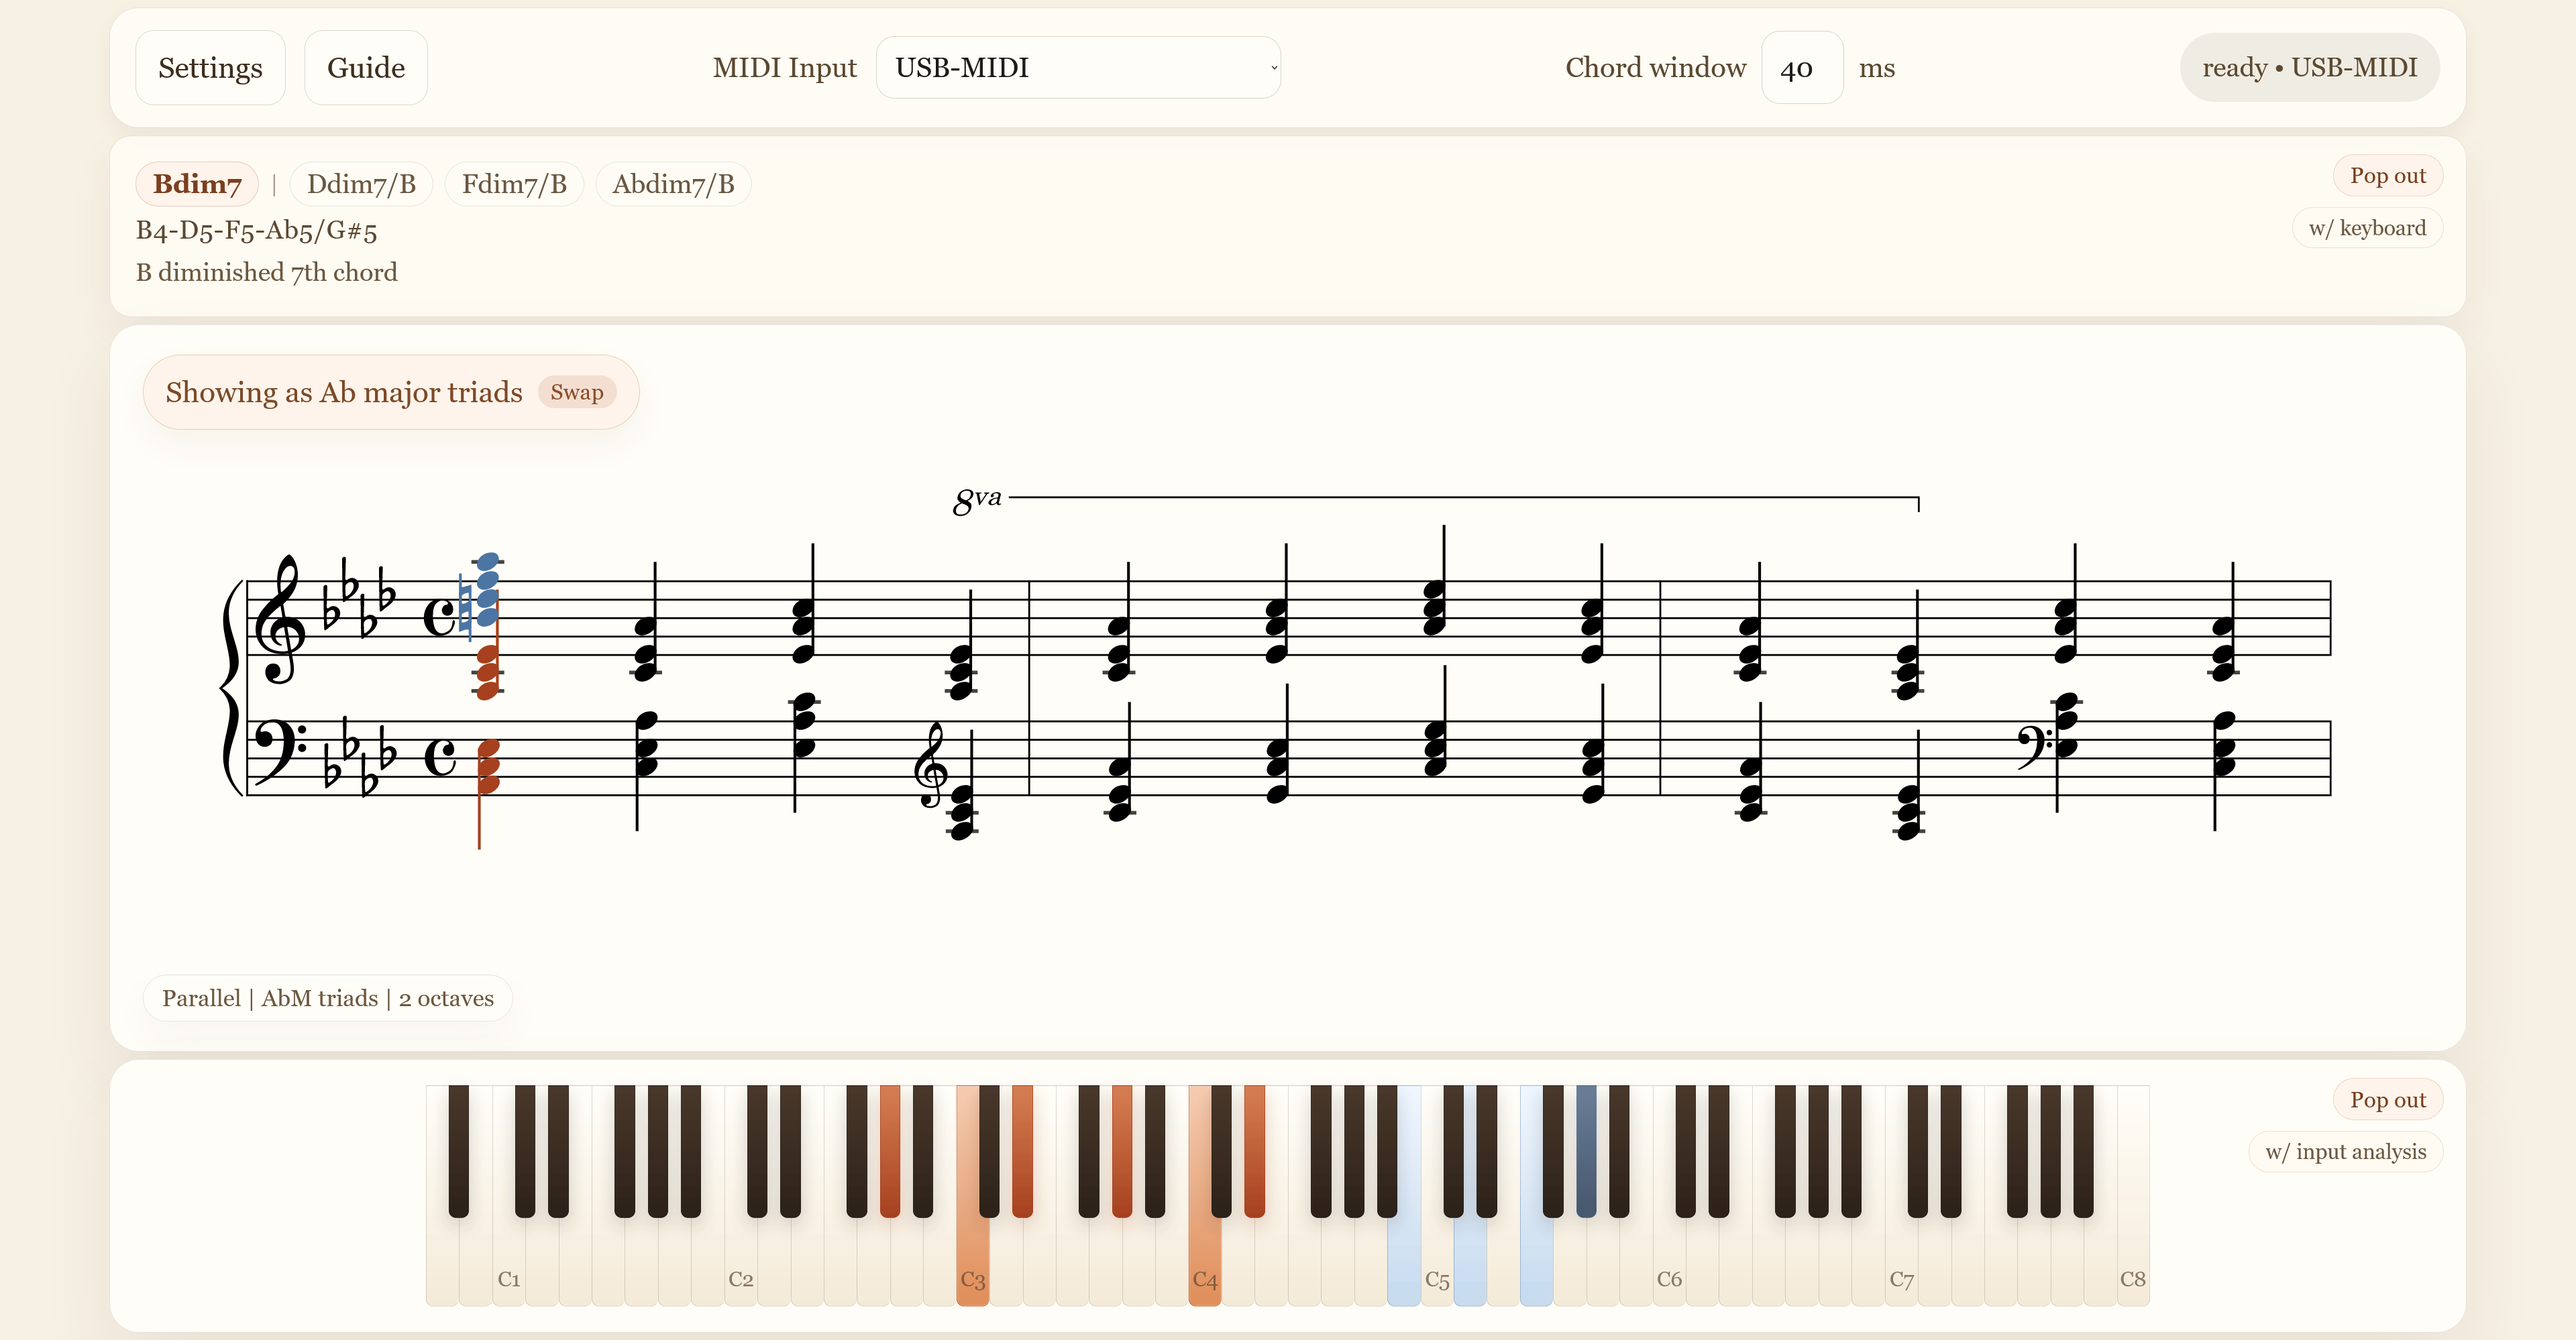
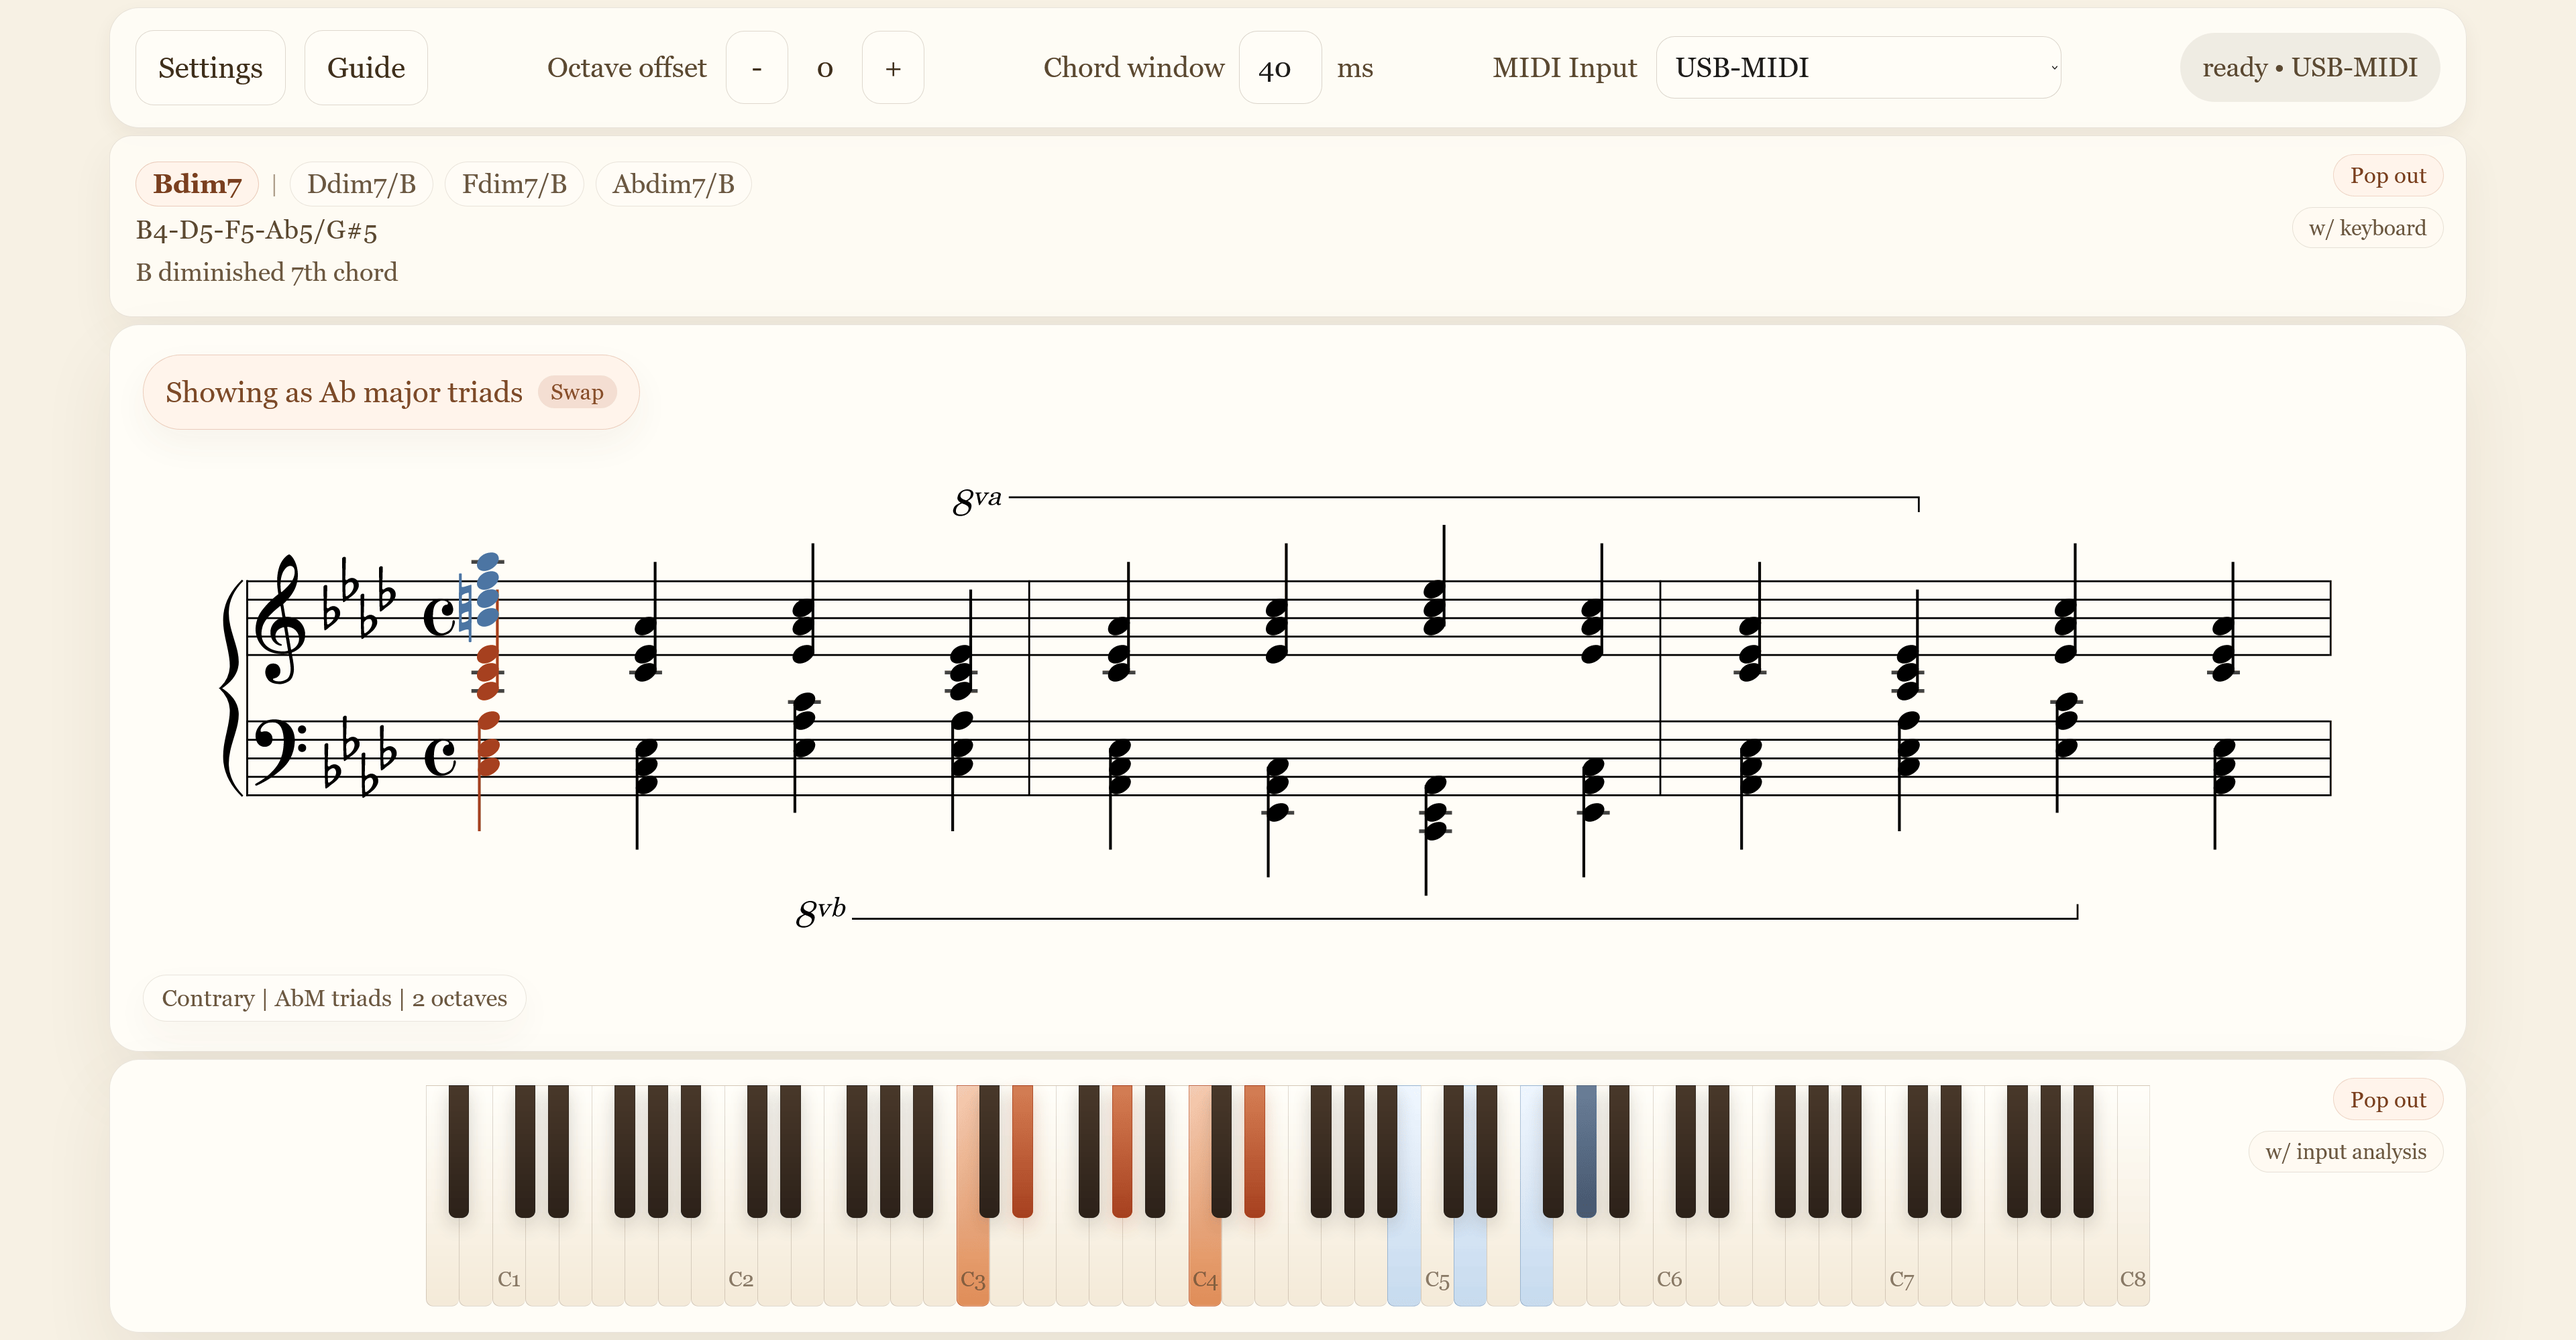
Update README.

diff --git a/README.md b/README.md
@@ -8,14 +8,16 @@ Most features can also be popped out into a scalable window and used in isolatio
 
 ![An example image of the Grand Staff Trainer layout.](referenceImg/layout.png)
 
+<a id="primary-features"></a>
 Primary feature explanations:
 1. [Input analysis panel](#input-analysis-panel) (popout friendly)
 2. [Exercise panel](#exercise-panel) (related to [chord window](#chord-window))
 3. [Keyboard display panel](#keyboard-display-panel) (popout friendly)
 
 Extra references:
-1. [Complete list of exercises](#exercise-list)
-2. [List of supported tonics](#full-tonic-list) (every practical tonic)
+1. [Explanation of user interface and all settings](#settings-explanations)
+2. [Complete list of exercises](#exercise-list)
+3. [List of supported tonics](#full-tonic-list) (every practical tonic)
 
 Design philosophy:
 1. [Input analysis panel](#input-analysis)
@@ -178,6 +180,37 @@ The keyboard display panel is the bottommost panel when visible. It is a represe
 This feature can be popped out and used in isolation or in tandem with [input analysis](#input-analysis-panel).
 
 ![An example of the keyboard panel showing the player's input and the expected input of the exercise.](referenceImg/keyboard_panel.png)
+
+## Settings Explanations
+1. The octave offset moves the position of middle C up or down the keyboard to support keyboards with less keys. An octave offset of -1 would mean that playing C5 is now considered C4. The default offset is 0.
+
+![An example of the octave offset setting.](referenceImg/settings_1.png)
+
+2. The chord window setting is only relevant during exercises. If an exercise requires two or more notes to be pressed at once, this is the amount of time Grand Staff Trainer will wait after detecting the first note down before validating the input. The smaller the chord window, the more precisely the player must play all notes at the same time. The default chord window is 40ms.
+
+![An example of the chord window setting.](referenceImg/exercise_panel_4.png)
+
+3. The MIDI Input selection is where the desired MIDI device is selected. The selected device is what Grand Staff Trainer will listen to for inputs.
+
+![An example of the MIDI Input selection](referenceImg/settings_2.png)
+
+4. The status pill displays the connection state of the selected MIDI Input.
+
+![An example of the status pill.](referenceImg/settings_3.png)
+
+5. The Settings button opens the settings menu where the majority of customisation options exist.
+
+6. In the settings menu, the display settings determine which primary feature panels Grand Staff Trainer displays. For explanations of the primary features, refer to [here](#primary-features).
+
+![An example of the display settings.](referenceImg/settings_4.png)
+
+7. In the settings menu, the popout buttons can be used to pop the input analysis and keyboard display features into separate scalable windows. These features can be popped out regardless of the display settings.
+
+![An example of the popout buttons.](referenceImg/settings_5.png)
+
+8. In the settings menu, the exercise settings can be used to customise the exercise to be played and its difficulty.
+
+![An example of the exercise settings.](referenceImg/settings_6.png)
 
 ## Design Rationale
 Music is complex and many perspectives can be taken for any problem. Great effort has been put into making each feature feel as intuitive and consistent as possible, but there will no doubt be moments of confusion. This section is to explain the logic driving the features and the known shortcomings/tradeoffs.
